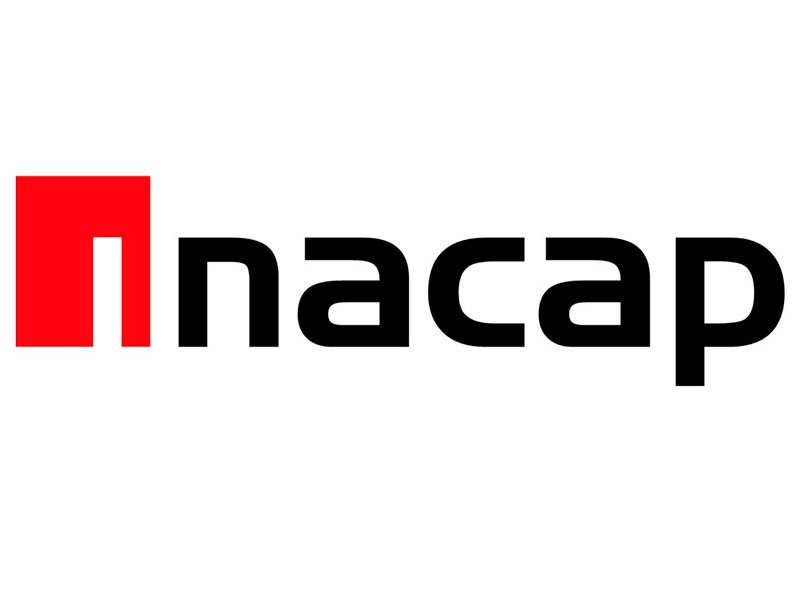
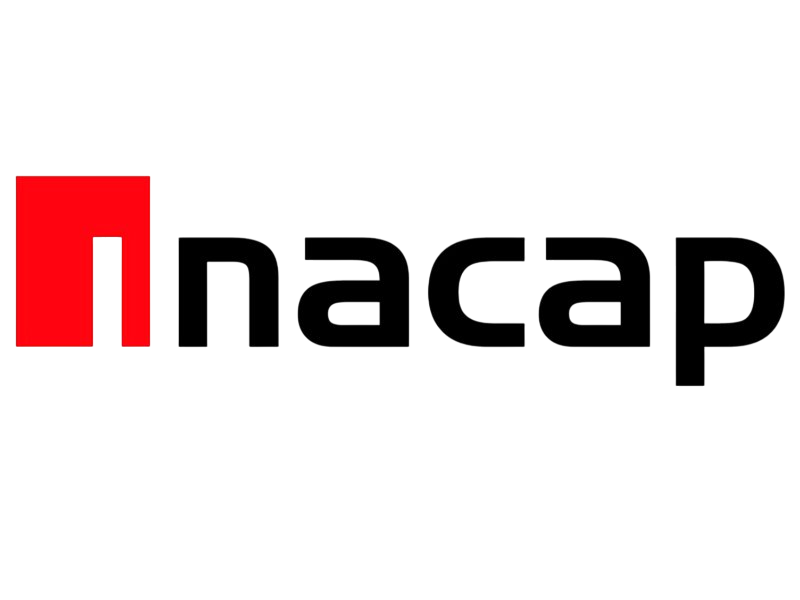
feat(creacion secciones principales)
agregue la seccion de perfil, chats privados, la seleccion de filtros de micros y tambien arregle los iconos y logos de la app

Changed region(s): [[0.4375, 0.48, 0.4688, 0.51]]

diff --git a/lajunta/tools/generate_padded_icon.dart b/lajunta/tools/generate_padded_icon.dart
@@ -1,0 +1,63 @@
+import 'dart:io';
+import 'package:image/image.dart' as img;
+
+/// Genera un PNG 1024x1024 con la imagen original centrada y con margen.
+/// Evita funciones que han cambiado entre versiones usando operaciones básicas.
+/// Uso:
+///   dart run tools/generate_padded_icon.dart assets/images/logo.png assets/images/app_logo_padded.png
+void main(List<String> args) {
+  if (args.length < 2) {
+    stderr.writeln('Uso: dart run tools/generate_padded_icon.dart <input> <output>');
+    exit(64);
+  }
+  final inputPath = args[0];
+  final outputPath = args[1];
+
+  final inputFile = File(inputPath);
+  if (!inputFile.existsSync()) {
+    stderr.writeln('No existe el archivo de entrada: $inputPath');
+    exit(1);
+  }
+
+  final original = img.decodeImage(inputFile.readAsBytesSync());
+  if (original == null) {
+    stderr.writeln('Formato de imagen no soportado o corrupto.');
+    exit(1);
+  }
+
+  const canvasSize = 1024; // Lienzo final cuadrado
+  const targetLogoWidthPercent = 0.68; // Ajusta para más/menos margen (0.60-0.70 típico)
+
+  // Crear lienzo transparente manualmente
+  final canvas = img.Image(width: canvasSize, height: canvasSize); // Pixels default 0 (transparente)
+  for (final p in canvas) { // Asegurar alfa 0
+    p.a = 0;
+  }
+
+  // Calcular tamaño escalado manteniendo proporción
+  final targetWidth = (canvasSize * targetLogoWidthPercent).round();
+  final scale = targetWidth / original.width;
+  final targetHeight = (original.height * scale).round();
+
+  final resized = img.copyResize(original, width: targetWidth, height: targetHeight);
+
+  // Coordenadas para centrar
+  final dx = ((canvasSize - targetWidth) / 2).round();
+  final dy = ((canvasSize - targetHeight) / 2).round();
+
+  // Copiar píxeles manualmente (evita funciones eliminadas entre versiones)
+  for (int y = 0; y < resized.height; y++) {
+    for (int x = 0; x < resized.width; x++) {
+      final sp = resized.getPixel(x, y);
+      final tx = dx + x;
+      final ty = dy + y;
+      // setPixel en v4 escribe el valor ARGB
+      canvas.setPixel(tx, ty, sp);
+    }
+  }
+
+  final png = img.encodePng(canvas);
+  File(outputPath).writeAsBytesSync(png);
+  stdout.writeln('Generado: $outputPath');
+  stdout.writeln('Ajusta targetLogoWidthPercent dentro del script para más margen.');
+}
